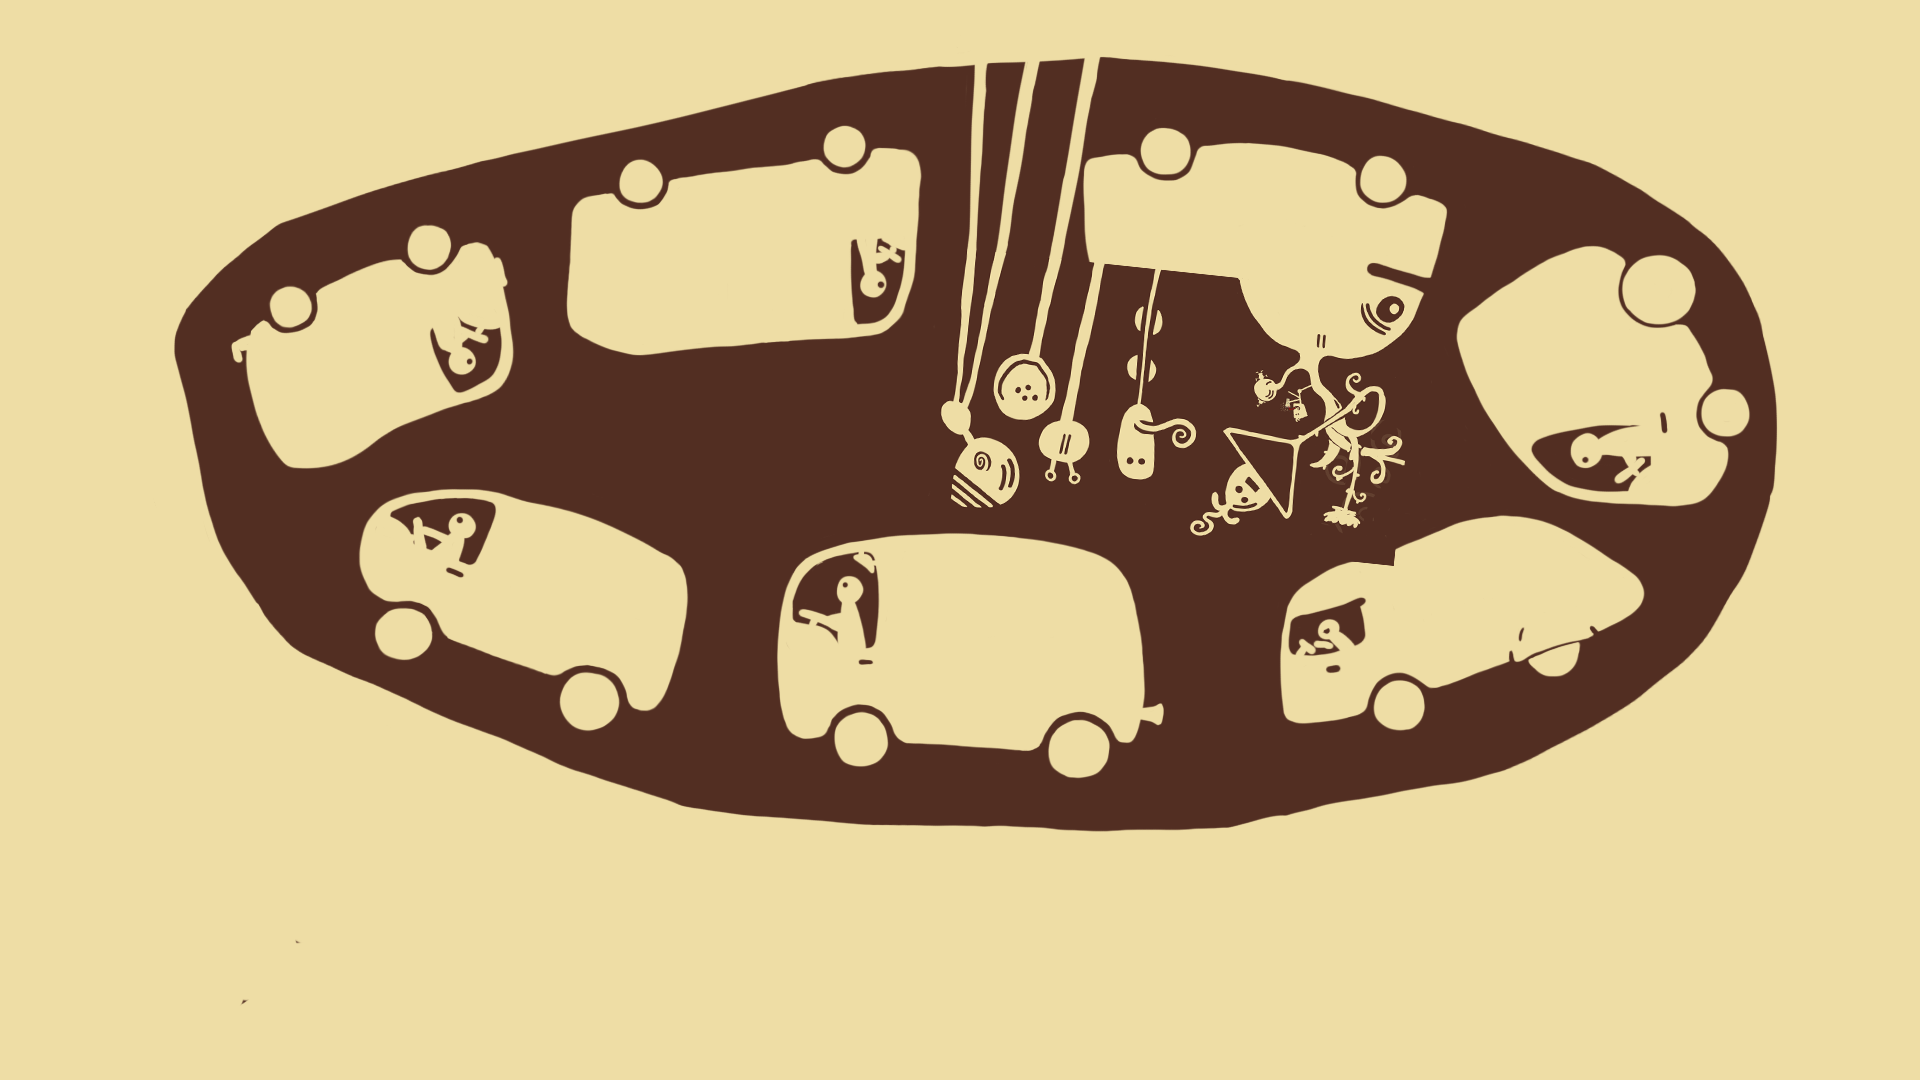
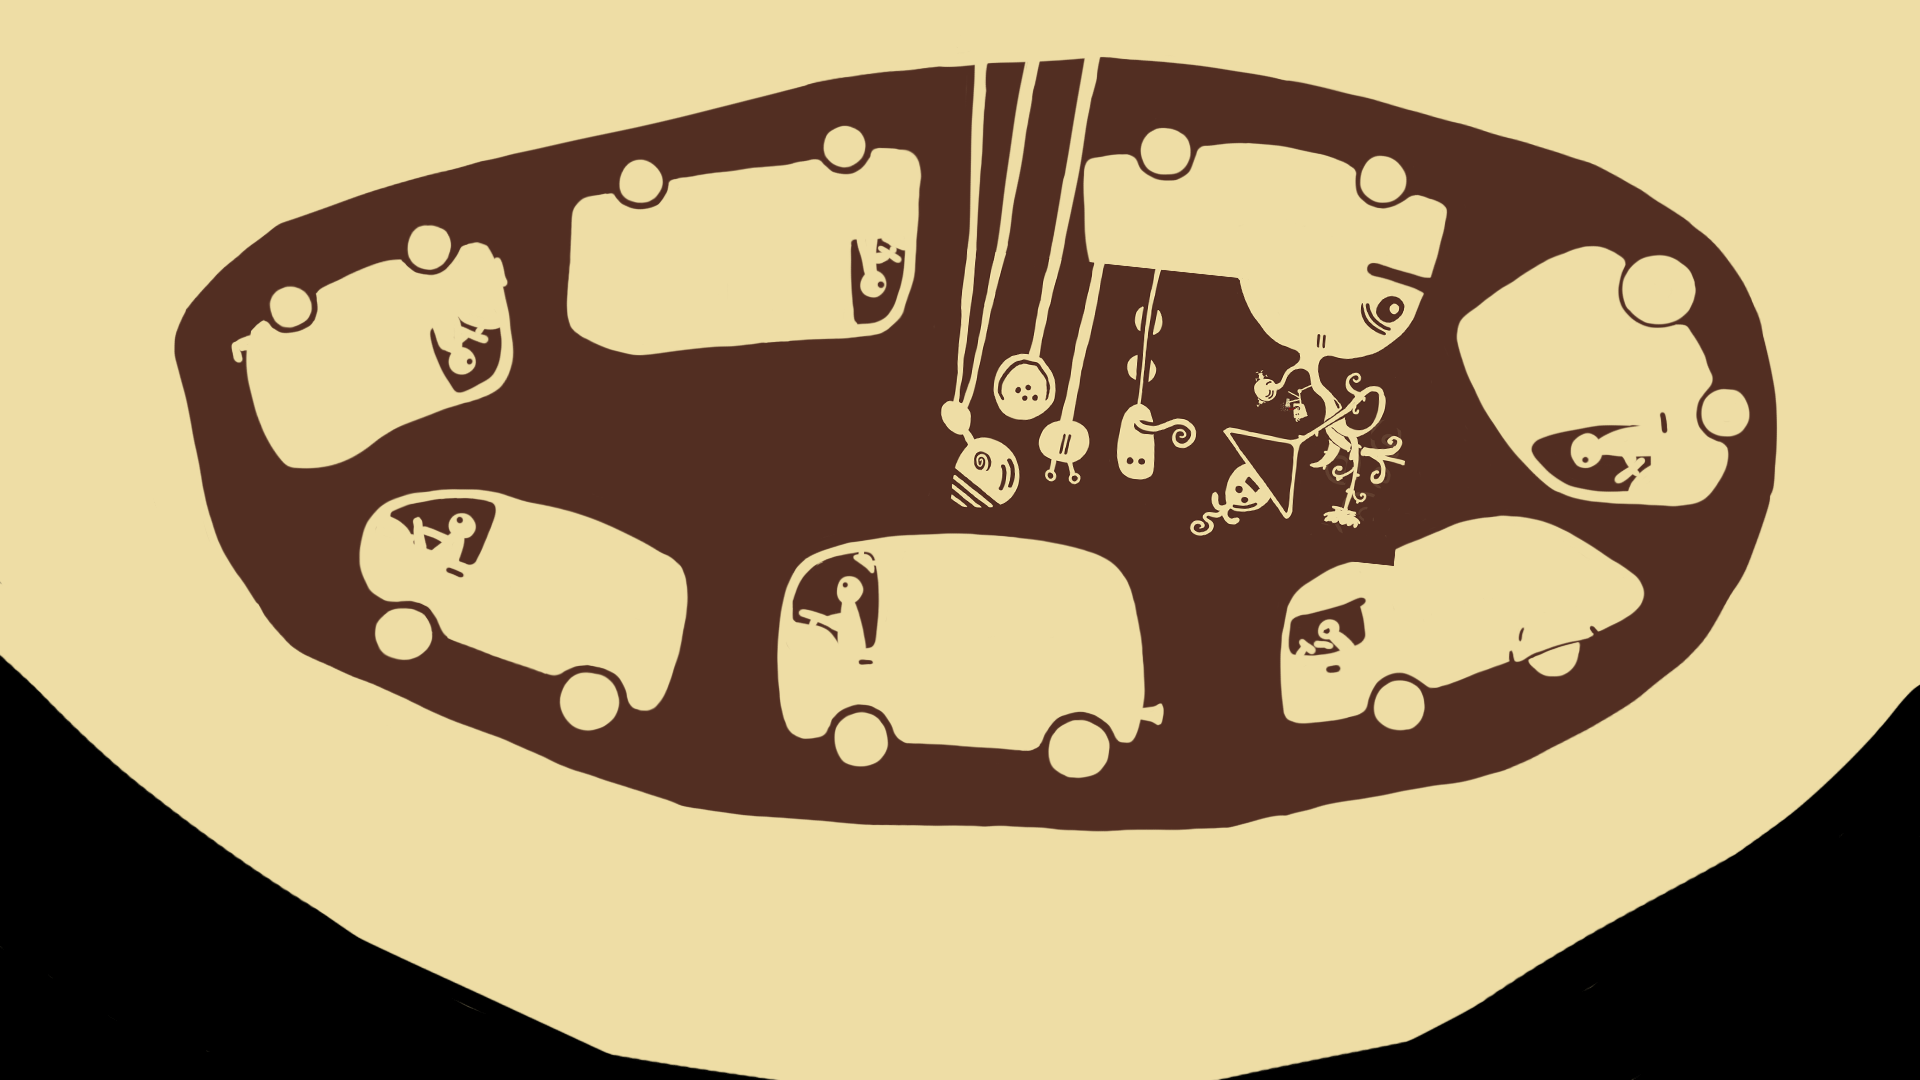
Work on intro and others

Changed region(s): [[0.0, 0.6111, 0.4062, 1.0], [0.625, 0.6417, 1.0, 1.0]]

diff --git a/src/bgpatternNode.js b/src/bgpatternNode.js
@@ -10,12 +10,57 @@
       };
       super(id, options);
       this.throb = 0;
+      this.zoomThrob = 0;
     }
 
     update(frame) {
       this.throb *= 0.95;
       if(BEAT && BEAN % 48 == 24) {
         this.throb = 1;
+      }
+      this.zoomThrob *= 0.95;
+      if(BEAT) {
+        switch(BEAN) {
+          case 192:
+          case 288:
+          case 372:
+          case 384:
+            this.zoomThrob = 1;
+        }
+
+        if(BEAN >= 576) {
+          if(BEAN % 48 == 24) {
+              this.zoomThrob = 5;
+          }
+        }
+        /*
+        if(BEAN >= 576) {
+          switch(BEAN % (96 * 2)) {
+            case 0:
+            case 24 - 4:
+            case 24 + 6:
+            case 24 + 8:
+            case 48 - 4:
+            case 48:
+            case 48 + 8:
+            case 48 + 24 - 4:
+            case 48 + 24 + 8:
+            case 96:
+            case 96 + 24 - 4:
+            case 96 + 24 + 8:
+            case 48 * 3 - 4:
+            case 48 * 3:
+            case 48 * 3 + 8:
+            case 48 * 3 + 24 - 4:
+            case 48 * 3 + 24:
+            case 48 * 3 + 24 + 8:
+            case 48 * 3 + 24 + 12:
+            case 48 * 3 + 24 + 12 + 8:
+              this.zoomThrob = 2;
+
+          }
+        }
+        */
       }
       this.uniforms.frame.value = frame;
       this.uniforms.tDiffuse.value = this.inputs.texture.getValue();
@@ -24,6 +69,7 @@
       this.uniforms.x.value = this.inputs.x.getValue();
       this.uniforms.y.value = this.inputs.y.getValue();
       this.uniforms.throb.value = this.throb;
+      this.uniforms.zoomThrob.value = this.zoomThrob;
     }
   }
 

diff --git a/src/yo.js b/src/yo.js
@@ -232,7 +232,7 @@
 
         const mesh = new THREE.Mesh(
           geometry,
-          new THREE.MeshBasicMaterial({map: scene.texture.getValue()}));
+          new THREE.MeshBasicMaterial({map: scene.texture.getValue(), transparent: true}));
         const rotated = rotatePoint({x: x, y: y}, -accumulatedPreviousRotation, {x: 0, y: 0});
         mesh.position.x = rotated.x;
         mesh.position.y = rotated.y;
@@ -283,7 +283,11 @@
         scene.container.visible = false;
       }
 
-      this.progress = Math.max(frame - 368, 368) / 60 / 60 * PROJECT.music.bpm / 4 / 4;
+      this.progress = Math.max(frame - 737, 368) / 60 / 60 * PROJECT.music.bpm / 4 / 4;
+      this.progress += easeIn(0, 0.25, F(frame, 384 - 48, 48 * 5));
+
+      this.progress += easeIn(0, 0.5 + 1.75, F(frame, 576 - 48 * 3, 48 * 3));
+
       const currentScene = this.scenes[this.progress | 0];
       currentScene.texture.enabled = true;
       currentScene.container.visible = true;

diff --git a/src/starsky2Node.js b/src/starsky2Node.js
@@ -1,0 +1,17 @@
+(function (global) {
+  class starsky2Node extends NIN.ShaderNode {
+    constructor(id, options) {
+      options.inputs = {
+        background: new NIN.TextureInput(),
+      };
+      super(id, options);
+    }
+
+    update(frame) {
+      this.uniforms.frame.value = frame;
+      this.uniforms.background.value = this.inputs.background.getValue();
+    }
+  }
+
+  global.starsky2Node = starsky2Node;
+})(this);
